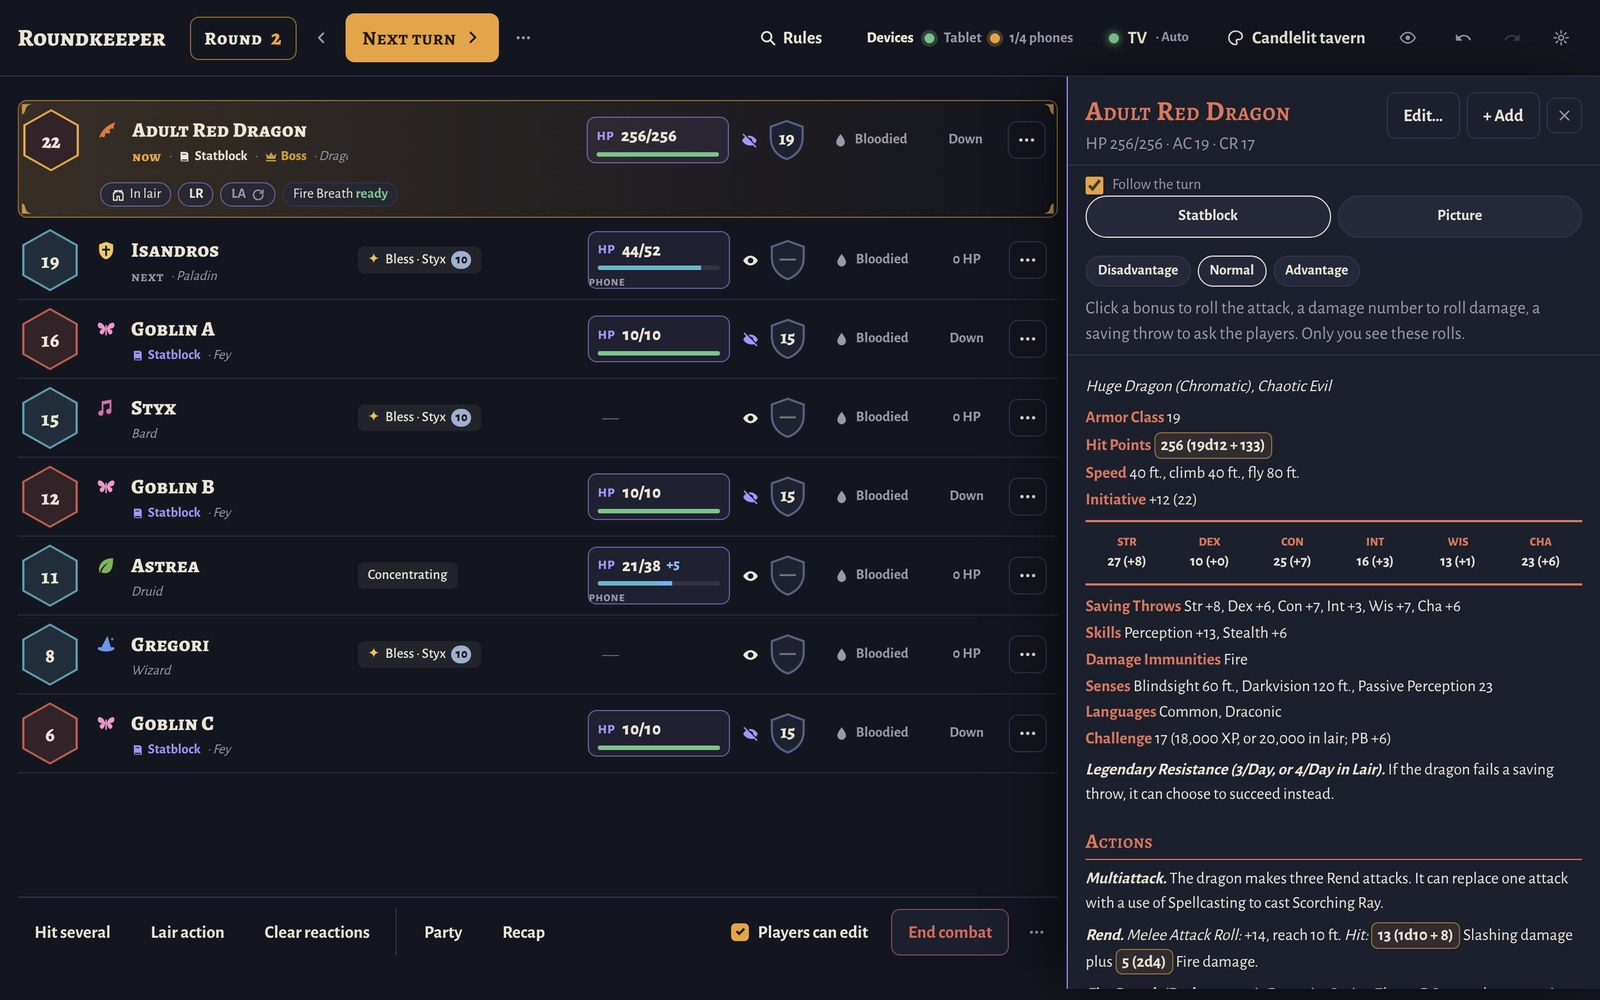
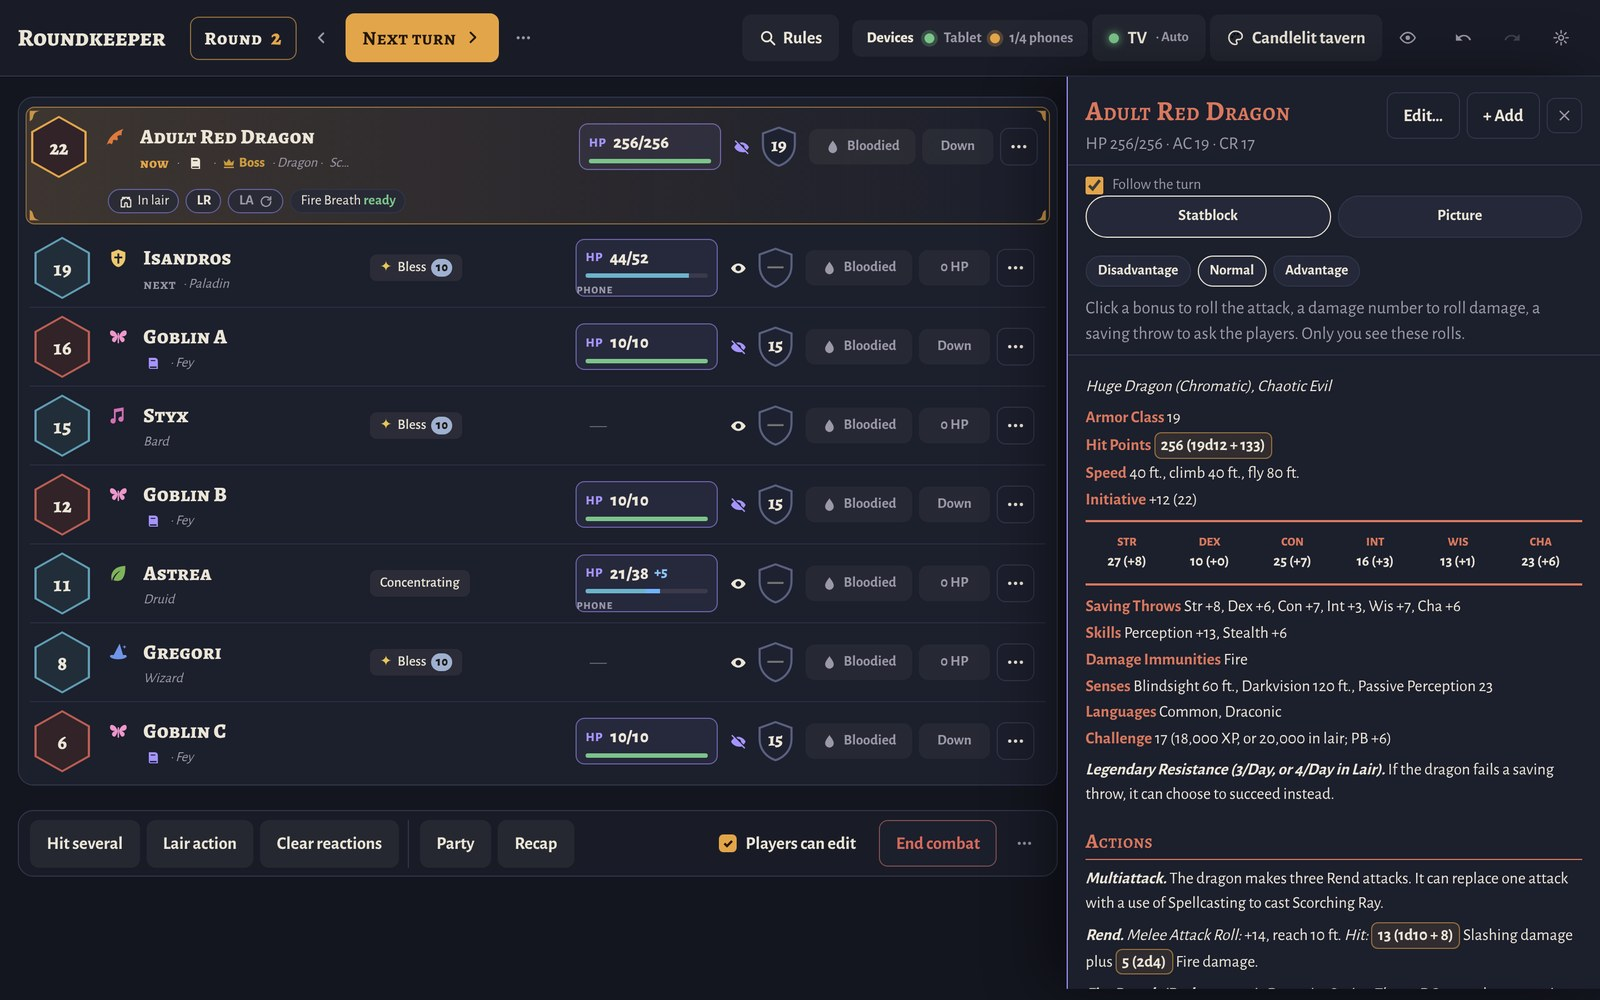
README for 1.2: new DM pictures and the New in 1.2 note
dm, atmosphere, hit-several, rules, party, devices, four-screens and the
social preview show the DM screen from 1.2.

Claude-Session: https://claude.ai/code/session_019XQztvW8TSKGeayguVyHtK

diff --git a/README.md b/README.md
@@ -33,7 +33,7 @@ https://github.com/user-attachments/assets/75f9911a-5173-49b4-b7d1-d81dae34e699
 
 **Three short tours, under a minute each:** [the DM's laptop](#the-dms-laptop) · [the tablet and the TV](#the-tablet-and-the-tv) · [the players' phones](#on-players-phones)
 
-> **New in 1.1: a calmer DM screen.** The row whose turn it is stands out at a glance, and the statblock can follow the turn by itself. Tools you use every round stay in view; the rest moved into small ⋯ menus and Settings. [What changed](../../releases/tag/v1.1.0)
+> **New in 1.2: a calmer DM screen that fits a laptop.** The row whose turn it is stands out at a glance, and the statblock can follow the turn by itself. Tools you use every round stay in view; the rest moved into small ⋯ menus and Settings. One download for each computer: Windows, Mac or Linux. [What changed](../../releases/tag/v1.2.0)
 
 ---
 
